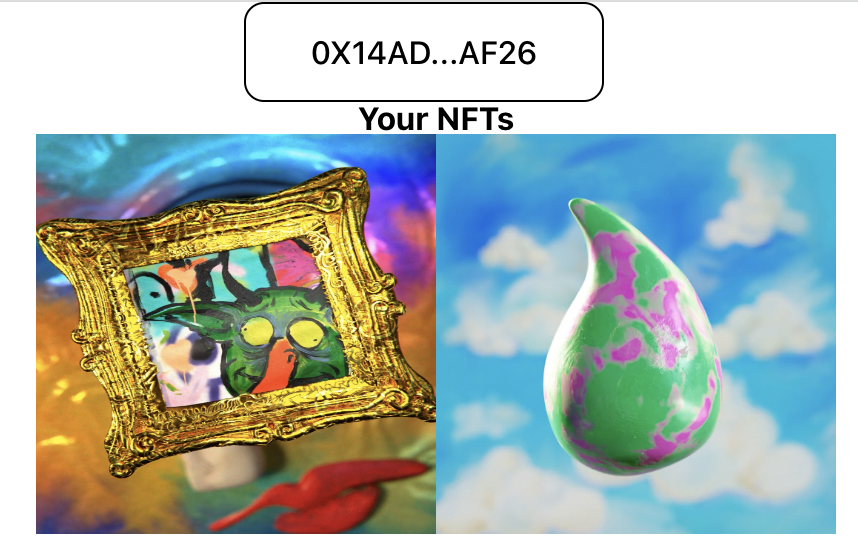
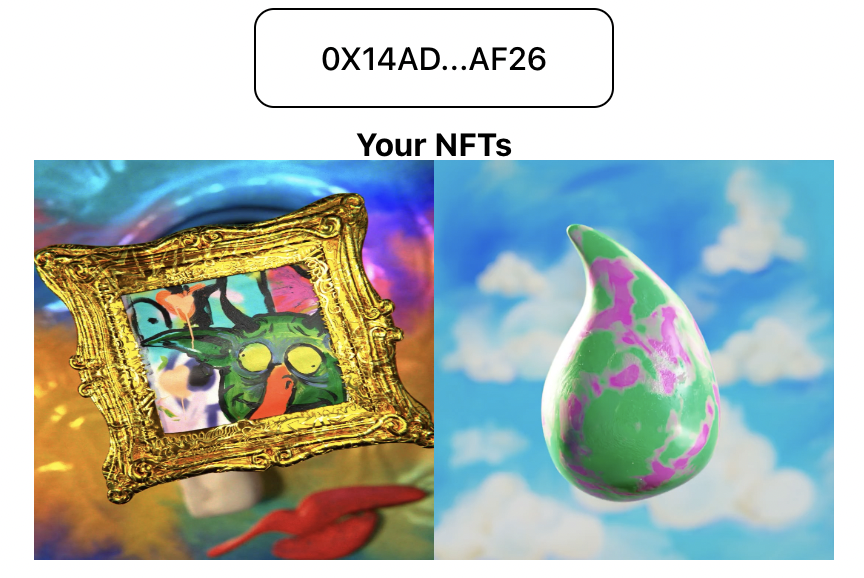
update styling and documentation

diff --git a/react/nft_profile_page/src/App.js b/react/nft_profile_page/src/App.js
@@ -10,8 +10,8 @@ function App() {
     // Get the data client instance
     const client = event.detail.client;
 
-    // Get the NFTs owned by the currently connected wallet filtered by
-    // the Forgotten Runes NFT contract address
+    // Get the NFTs owned by the currently connected wallet
+    // Data client API's can be found here: https://docs.manifold.xyz/v/manifold-for-developers/client-widgets/connect-widget/data-client-apis
     setNfts(await client.getNFTsOfOwner());
     setAuthenticated(true);
   })
@@ -21,21 +21,26 @@ function App() {
   })
   return (
     <div className="App">
-      <div>
-        <div
-          data-widget="m-connect"
-          data-app-name={process.env.REACT_APP_MANIFOLD_APP_NAME}
-          data-client-id={process.env.REACT_APP_MANIFOLD_CLIENT_ID}
-        >
-        </div>
-        {authenticated && <h2>Your NFTs</h2>}
-        <div id="nfts">
-          {nfts.map((nft) => {
-            return (
-              <img key={`${nft.tokenId}-${nft.contractAddress}`} src={nft.image} height={200} width={200}></img>
-            )
-          })}
-        </div>
+      <div
+        data-widget="m-connect"
+        data-app-name={process.env.REACT_APP_MANIFOLD_APP_NAME}
+        data-client-id={process.env.REACT_APP_MANIFOLD_CLIENT_ID}
+        style={{
+          marginTop: "10px",
+          marginBottom: "10px",
+          display: "flex",
+          flexDirection: "row",
+          justifyContent: "center"
+        }}
+      >
+      </div>
+      {authenticated && <h2>Your NFTs</h2>}
+      <div id="nfts">
+        {nfts.map((nft) => {
+          return (
+            <img key={`${nft.tokenId}-${nft.contractAddress}`} src={nft.image} height={200} width={200}></img>
+          )
+        })}
       </div>
     </div>
   );

diff --git a/react/nft_profile_page/README.md b/react/nft_profile_page/README.md
@@ -6,6 +6,12 @@ This is a simple example of an NFT Collection Page. It contains a way for someon
 
 This was created using the standard create-react-app script.
 
+## Configuration
+Please make sure you set the REACT_APP_MANIFOLD_APP_NAME and REACT_APP_MANIFOLD_CLIENT_ID in the .env or your own .env.local.
+
+## How does it work?
+In this example, we are adding a [Connect Widget](https://docs.manifold.xyz/v/manifold-for-developers/client-widgets/connect-widget), which will allow a user to authenticate to your website.  Once authenticated, your app will have access to a [Data Client](https://docs.manifold.xyz/v/manifold-for-developers/client-widgets/connect-widget/data-client-apis), which allows you to retrieve information about the user's NFTs.
+
 ## Available Scripts
 
 In the project directory, you can run:
